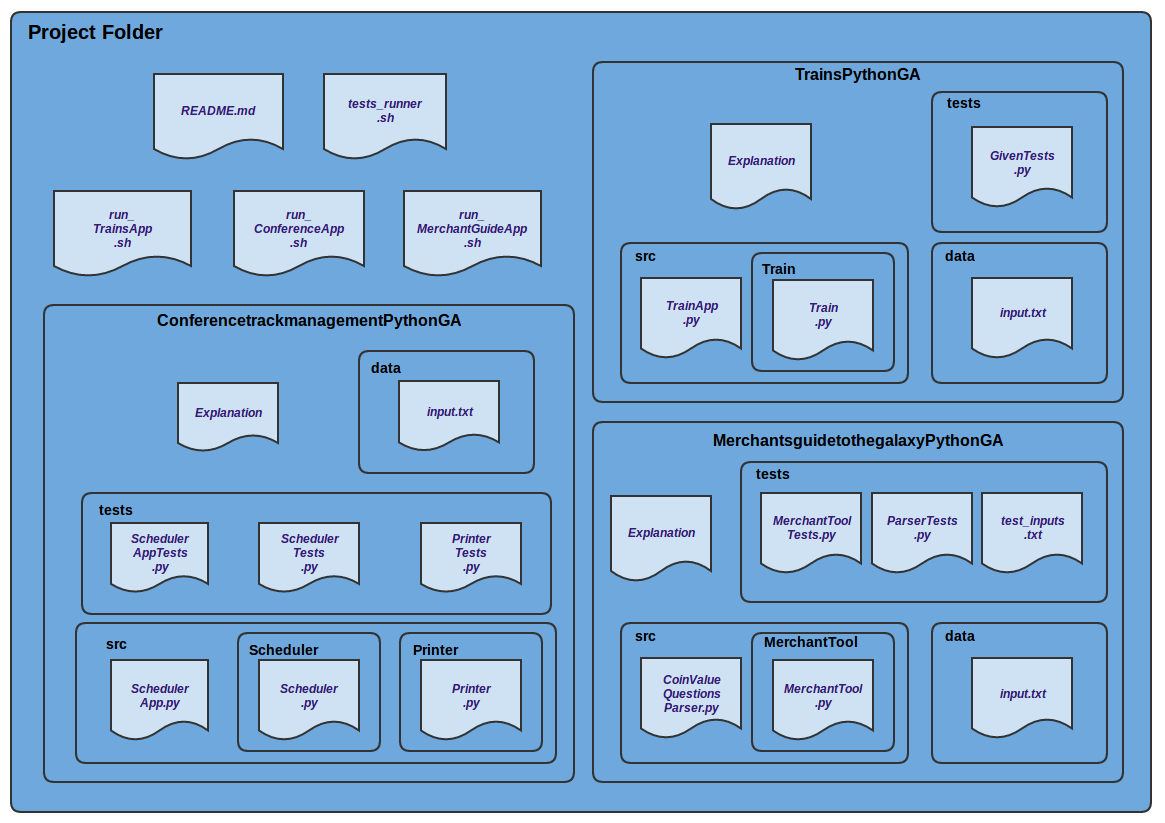
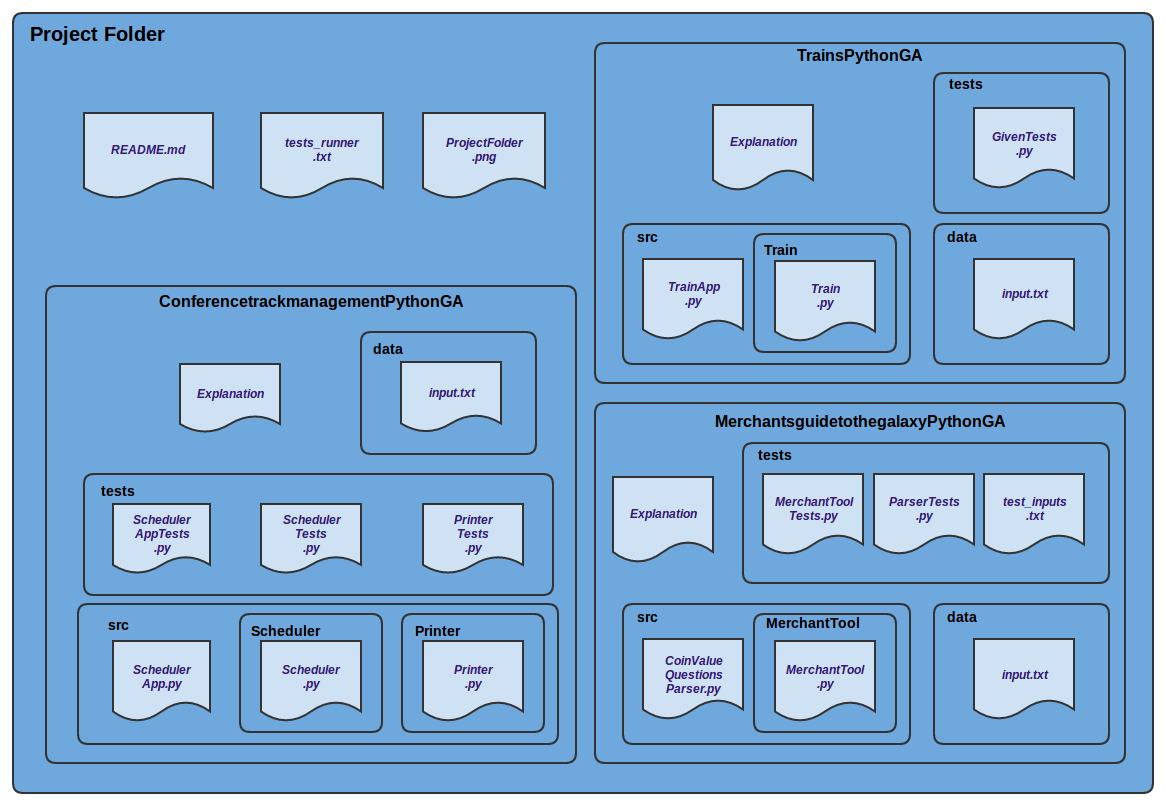
Some more cleaning to have the requested files with the correct format

diff --git a/README.md b/README.md
@@ -5,4 +5,19 @@ This is my solution for the Thoughtworks code test.
 A general view of the folders structure can be seen in:
     ProjectFolder.png
 
+
+To run the applications, type from the main folder:
+
+1) Trains Application
+       python TrainsPythonGA/src/TrainApp.py $optional_input_path
+
+2) Conference Track Management
+       python ConferencetrackmanagementPythonGA/src/SchedulerApp.py $optional_input_path
+
+3) Merchant's Guide to the Galaxy
+       python MerchantsguidetothegalaxyPythonGA/src/CoinValueQuestionsParser.py $optional_input_path
+
 As requested, several tests have been added.
+In order to run them, execute them from the main folder. Paths to each of the tests files can be
+found in the file tests_runner.txt
+
